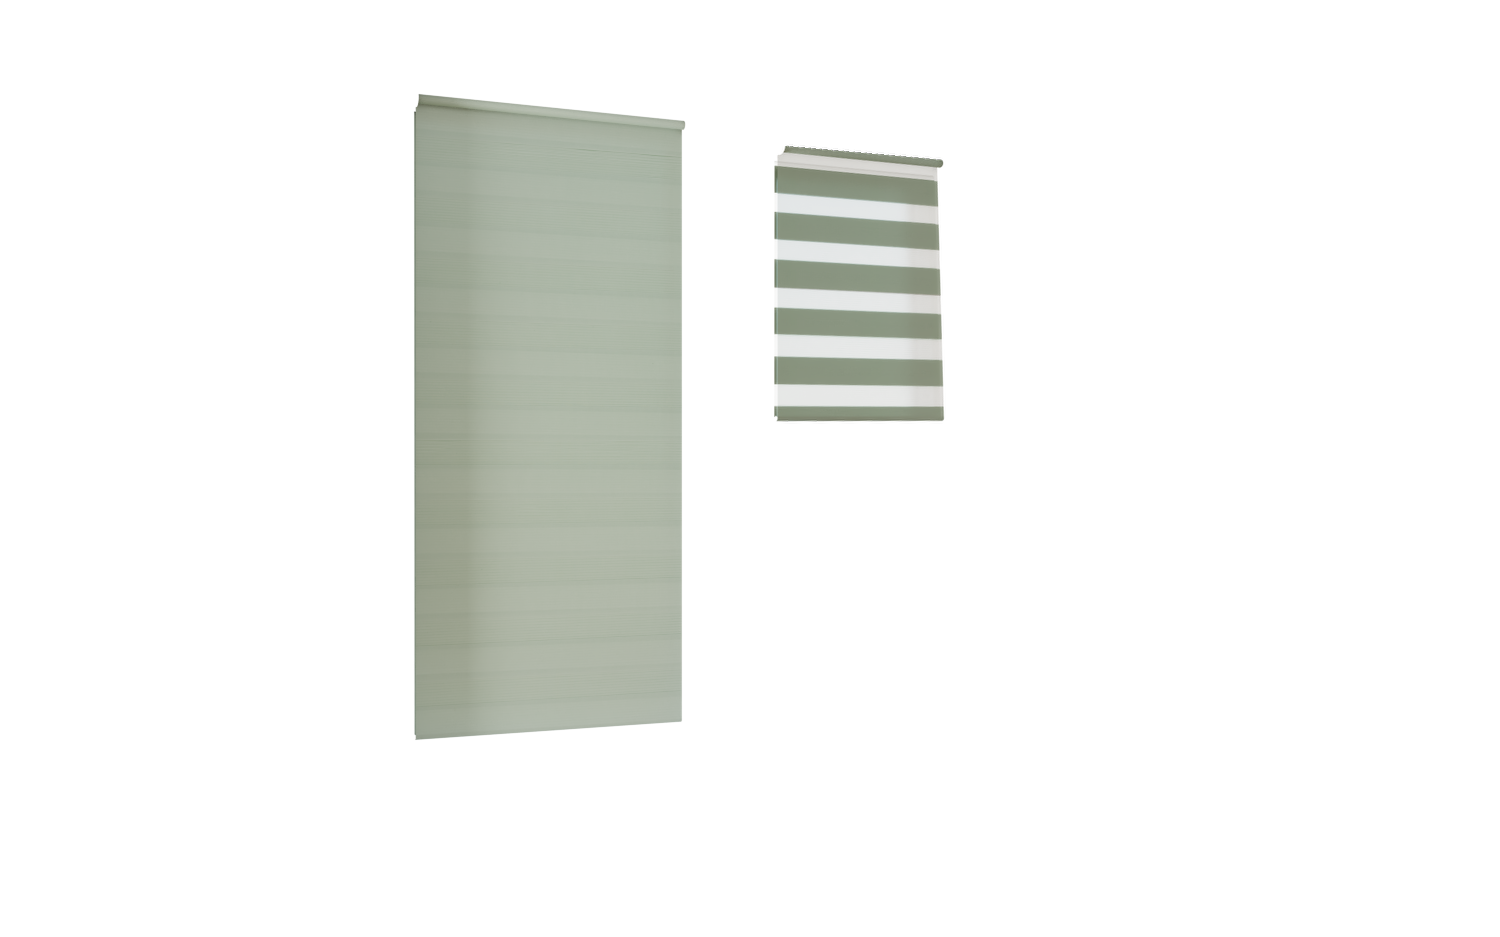
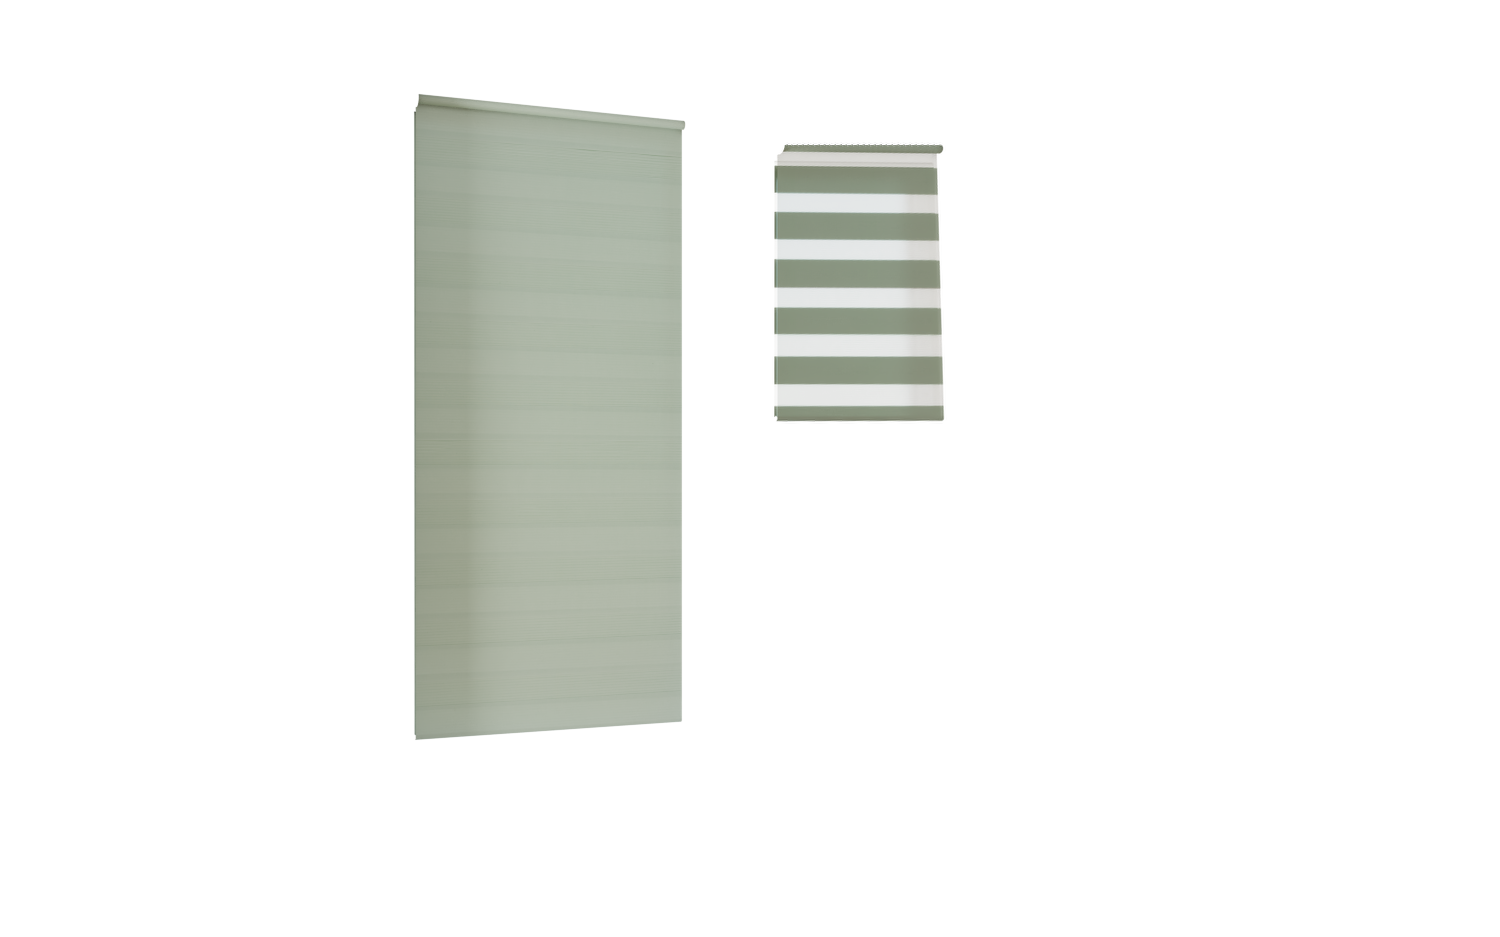
fix: rectify zebra sash geometry

Changed region(s): [[0.5213, 0.1547, 0.644, 0.4023]]

diff --git a/apps/web/app/preview/standard-preview-renderer.tsx b/apps/web/app/preview/standard-preview-renderer.tsx
@@ -152,20 +152,20 @@ function SupplierAtlasLayer({
       {family === 'ZEBRA' ? (
         <g data-preview-correction="zebra-perspective-aligned-hardware">
           <path
-            d="M780 153 L939 167"
+            d="M780 153 L939 153"
             opacity="0.42"
             stroke="#545957"
             strokeLinecap="round"
             strokeWidth="15"
           />
           <path
-            d="M780 153 L939 167"
+            d="M780 153 L939 153"
             stroke={model.hardwareColor}
             strokeLinecap="round"
             strokeWidth="11"
           />
           <path
-            d="M783 150 L937 164"
+            d="M783 150 L937 150"
             opacity="0.76"
             stroke="#FFFFFF"
             strokeLinecap="round"
